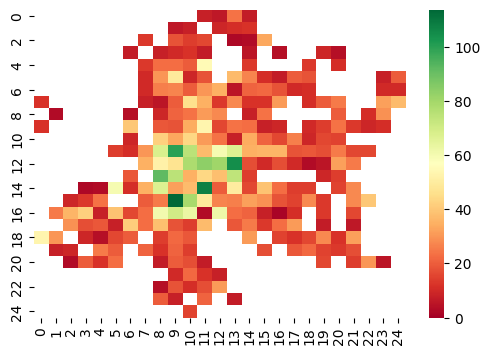
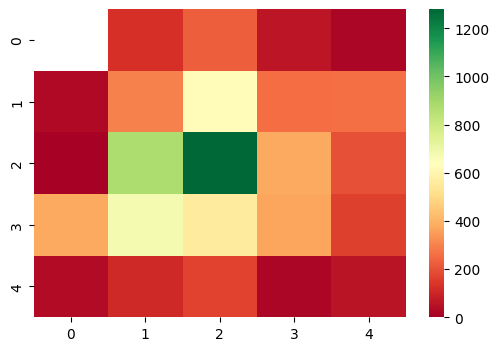
Crear geojson

diff --git a/formularios/formEstacionesFijas.py b/formularios/formEstacionesFijas.py
@@ -5,7 +5,9 @@ import util.utilEstaciones as utilEstaciones
 import seaborn as sns
 import matplotlib.pyplot as plt
 from PIL import Image, ImageTk
-
+import geojson
+import plotly.express as px
+import numpy as np
 
 
 class FormEstacionesFijasDesign():
@@ -17,27 +19,30 @@ class FormEstacionesFijasDesign():
         self.barra_inferior = Frame(panel_principal, bg=COLOR_CUERPO_PRINCIPAL)
         self.barra_inferior.pack(side=TOP, fill="both", expand=True)
 
+        self.barra_boton = Frame(panel_principal, bg=COLOR_CUERPO_PRINCIPAL)
+        self.barra_boton.pack(side=TOP, fill="both", expand=True)
+
         self.labelTitulo=Label(self.barra_superior, text="Estaciones fijas")
         self.labelTitulo.config(fg="#1F71A9", font=("Roboto", 30), bg=COLOR_CUERPO_PRINCIPAL, pady=20)
         self.labelTitulo.pack(side=TOP, fill = "both", expand=True)
 
-        #self.labelImage=Label(self.barra_inferior, image=imagen)
-        #self.labelImage.pack(pady=50)
-        #self.labelImage.config(bg=COLOR_CUERPO_PRINCIPAL)
-
+        self.labelImage=Label(self.barra_inferior, image=imagen)
+        self.labelImage.pack(pady=50)
+        self.labelImage.config(bg=COLOR_CUERPO_PRINCIPAL)
         
         estaciones = utilEstaciones.devolver_estaciones()
         maxLon, minLon, maxLat, minLat = utilEstaciones.limites(estaciones)
 
         # Definir el numero de filas y columnas
-        n = 25
+        n = 5
 
         # Calcular el ancho y alto de cada celda de la cuadrícula
         lon_celda = (maxLon - minLon) / n
         lat_celda = (maxLat - minLat) / n
 
-        df = utilEstaciones.crear_dataframe(estaciones, n, minLon, minLat, lon_celda, lat_celda)
+        geo_json, df = utilEstaciones.crear_geojson_df(estaciones, n, minLon, minLat, lon_celda, lat_celda)
 
+        """
         cantidadMin = min(estaciones[id]['bike_bases'] for id in estaciones)
         cantidadMax = max(estaciones[id]['bike_bases'] for id in estaciones)
 
@@ -48,28 +53,30 @@ class FormEstacionesFijasDesign():
         print("Numero de celdas: " + str(n) + " lon_celda: " + str(lon_celda) + "; lat_celda: " + str(lat_celda))
         print(df)
         print("cantidadMin: " + str(cantidadMin), " cantidadMax: " + str(cantidadMax))
-        print("minZona: " + str(minZona), " maxZona: " + str(maxZona))
+        print("minZona: " + str(minZona), " maxZona: " + str(maxZona))"""
+
+        self.boton = Button(self.barra_boton, text="Cargar  mapa de calor", 
+                            font=("Roboto", 10, "bold"), command= lambda: self.cargar_mapa(geo_json, df))
+        self.boton.config(padx=10, pady=10, bd=0, bg=COLOR_BARRA_SUPERIOR, fg="white")
+        self.boton.pack()
 
 
-        # Crear un mapa de calor con Seaborn
 
-        cmap_custom = sns.color_palette("RdYlGn", as_cmap=True)
-        cmap_custom.set_bad(color='white')
+        
+    def cargar_mapa(geo_json, df):
+        ruta_archivo = "cuadricula.geojson"
+        with open(ruta_archivo, "w") as archivo:
+            geojson.dump(geo_json, archivo)
 
-        plt.figure(figsize=(6, 4))
-        heatmap = sns.heatmap(df, cmap=cmap_custom, vmin=minZona, vmax=maxZona, mask=(df == 0))
+        with open(ruta_archivo, "r") as archivo:
+            geojson_objeto = geojson.load(archivo)
 
-        # Guardar el mapa de calor como una imagen PNG
-        plt.savefig("heatmap.png", bbox_inches='tight')
+        fig = px.choropleth(df, 
+                            locations='id', 
+                            geojson=geojson_objeto, 
+                            color='cantidad', 
+                            hover_name='name')
+        fig.update_geos(fitbounds="locations", visible=False)
 
-        # Cargar la imagen del mapa de calor
-        heatmap_img = Image.open("heatmap.png")
-        heatmap_img = heatmap_img.resize((800, 500), Image.ANTIALIAS)  # Ajustar tamaño de la imagen
-
-        # Convertir la imagen a formato Tkinter
-        heatmap_tk = ImageTk.PhotoImage(heatmap_img)
-
-        # Mostrar la imagen en el frame de Tkinter
-        label = ttk.Label(self.barra_inferior, image=heatmap_tk)
-        label.image = heatmap_tk
-        label.pack()
+        fig.show()
+        

diff --git a/util/utilEstaciones.py b/util/utilEstaciones.py
@@ -1,6 +1,7 @@
 import requests
 import json
 import pandas as pd
+import numpy as np
 
 def devolver_estaciones():
     #Hago login y guardo el token de acceso
@@ -49,19 +50,61 @@ def limites(estaciones):
 
     return maxLon, minLon, maxLat, minLat
 
-def crear_dataframe(estaciones, n, minLon, minLat, lon_celda, lat_celda):
-    # Crear DataFrame 
-    df = pd.DataFrame(0, index=range(n), columns=range(n), dtype=int)  
 
-    # Asignar las coordenadas a las celdas de la cuadrícula y sumar las cantidades asociadas
+def crear_geojson_df(estaciones, n, minLon, minLat, lon_celda, lat_celda):
+    #Creo matriz para guardar las coordenadas de todos los puntos
+    matriz = [[[minLon, minLat] for _ in range(n+1)] for _ in range(n+1)]
+    idMap = np.empty((n,n))
+
+    for i in range(n+1):
+        for j in range(n+1):
+            matriz[i][j] = [matriz[i][j][0] + lon_celda * j,matriz[i][j][1] + lat_celda * i]
+
+    geojson = {
+            "type": "FeatureCollection",
+            "features": []
+        }
+    
+    #Saco las coordenadas de cada casilla para guardarlas en el geojson
+    #Guardo en el diccionario de datos los ids y los nombres de las zonas
+    datos={
+        'id': [],
+        'name': [],
+        'cantidad': [],
+    }
+    id = 1
+    for i in range (n):
+        for j in range(n):
+            datos['id'].append(id)
+            datos['name'].append(f"Zona {id}")
+            feature = {
+                "type": "Feature",
+                "properties": {"name": f"Zona {id}"},
+                "geometry": {
+                    "coordinates": [[matriz[i][j], matriz[i][j+1], matriz[i+1][j], matriz[i+1][j+1], matriz[i][j]]],
+                    "type": "Polygon"
+                },
+                'id': id
+            }
+            geojson['features'].append(feature)
+            idMap[i][j] = id
+            id = id + 1
+
+    
+    datos['cantidad'] = [0 for i in range(pow(n,2))]
+    
+    #Relleno las cantidades para cada zona
     for id in estaciones:
-        asignar_celda(estaciones[id]['coordinates'], estaciones[id]['bike_bases'], df,
-                      n, minLon, minLat, lon_celda, lat_celda)
+        zona = clasificar_punto(estaciones[id]['coordinates'], lon_celda, lat_celda, minLon, minLat, idMap)
+        datos['cantidad'][zona-1] = datos['cantidad'][zona-1] + estaciones[id]['bike_bases']
+        #print(f"La estacion {id} pertenece a la zona {zona}")
+    
+    df = pd.DataFrame(datos)
 
-    return df
+    return geojson, df
 
-def asignar_celda(coor, cantidad, df, n, minLon, minLat, lon_celda, lat_celda):
-        x, y = coor
-        columna = min(int((x - minLon) / lon_celda), n-1) 
-        fila = min(int((y - minLat) / lat_celda), n-1)
-        df.at[n-1 - fila, columna] += cantidad
+def clasificar_punto(punto, lon_celda, lat_celda, minLon, minLat, idMap):
+    lon, lat = punto
+    zona_lon = int((lon - minLon)/lon_celda)
+    zona_lat = int((lat - minLat)/lat_celda)
+    return int(idMap[zona_lon-1][zona_lat-1])

diff --git a/formularios/formBicicletasFlotantes.py b/formularios/formBicicletasFlotantes.py
@@ -1,14 +1,9 @@
 from tkinter import *
 from config import COLOR_CUERPO_PRINCIPAL, COLOR_BARRA_SUPERIOR
-from tkhtmlview import HTMLLabel
-import folium
-
 import json
 import pandas as pd
 import plotly.express as px
-
-from PIL import ImageTk
-import io
+import util.utilEstaciones as utilEstaciones
 
 
 class FormBicicletasFlotantesDesign():
